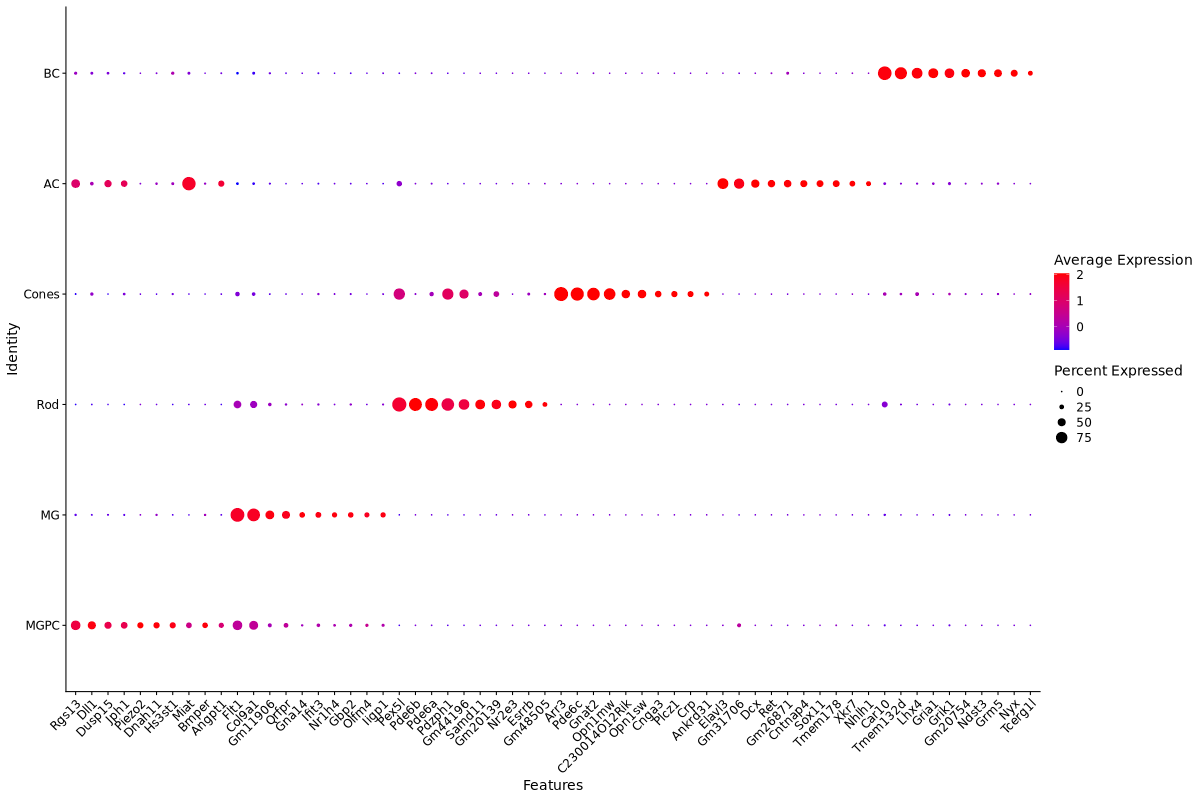
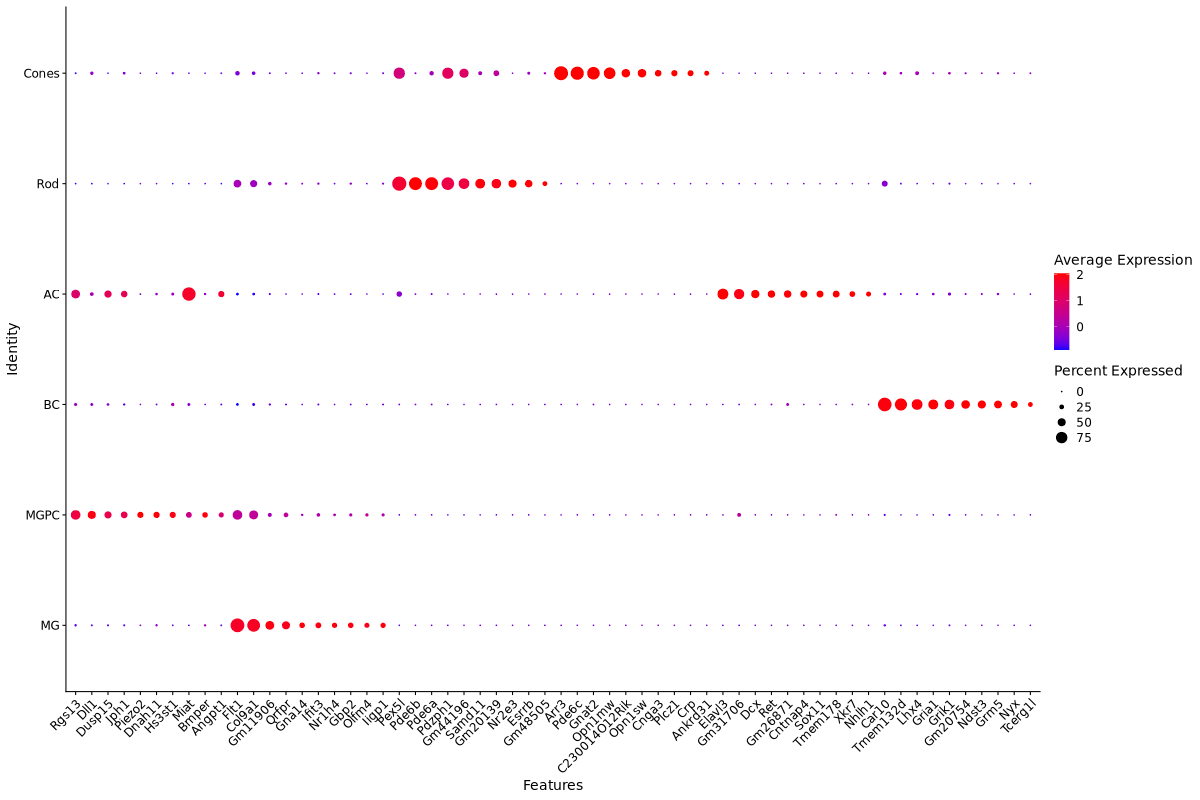
Update dge order of cells and add motif Enrich

diff --git a/README.md b/README.md
@@ -105,6 +105,14 @@ Overexpression of stablized version of Neurog2
 
 ## Differential Gene Expression
 
+#### Starting with: 
+
+| Metric          | Count   |
+|-----------------|---------|
+| Number of cells | 17,278  |
+| Number of genes | 32,287  |
+
+
 ![](figures/cNeurog2_celltype_markers_heatmap.png?v=4)
 
 ![](figures/cNeurog2_celltype_top_markers_featureplot.png?v=4)
@@ -127,16 +135,12 @@ Overexpression of stablized version of Neurog2
 #### MG
 ![](figures/cNeurog2_MG_markers_violin.png?v=4)
 
+# Motif Enrichment 
+
+![](figures/motif_enrichment.png?v=1)
+
 
 ## Top Differential Peaks after annotation (nearby Genes)
-
-#### Starting with: 
-
-| Metric          | Count   |
-|-----------------|---------|
-| Number of cells | 17,360  |
-| Number of genes | 213,119 |
-
 
 ![](figures/TopPeaks.png?v=2)
 
